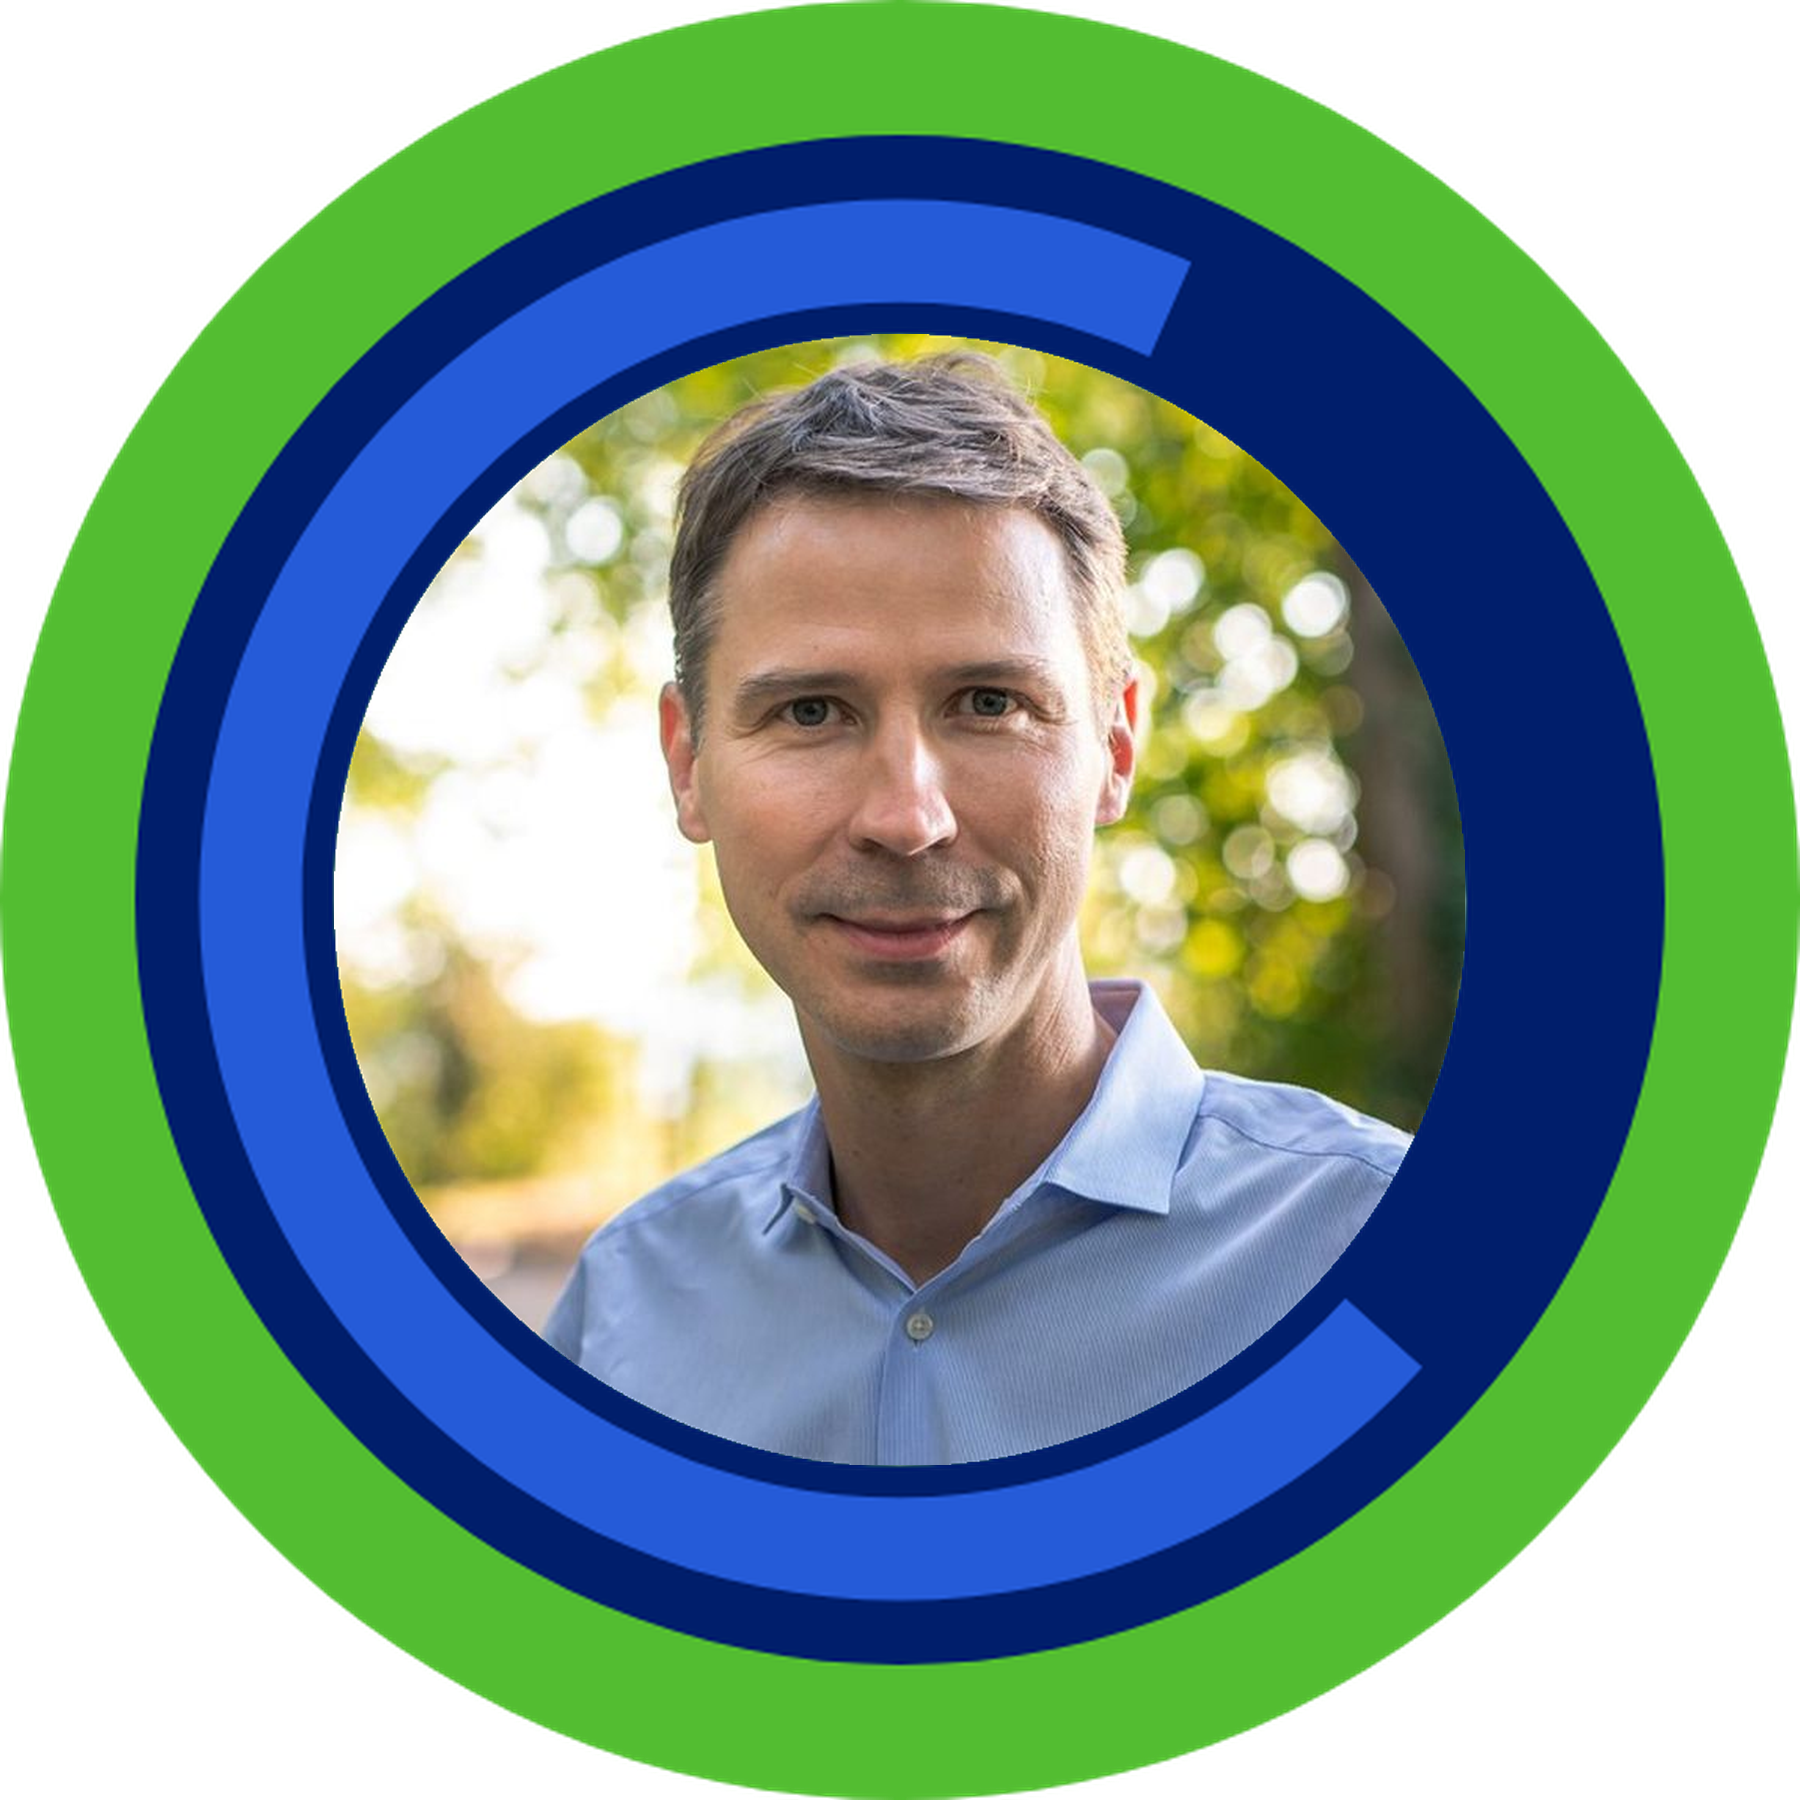
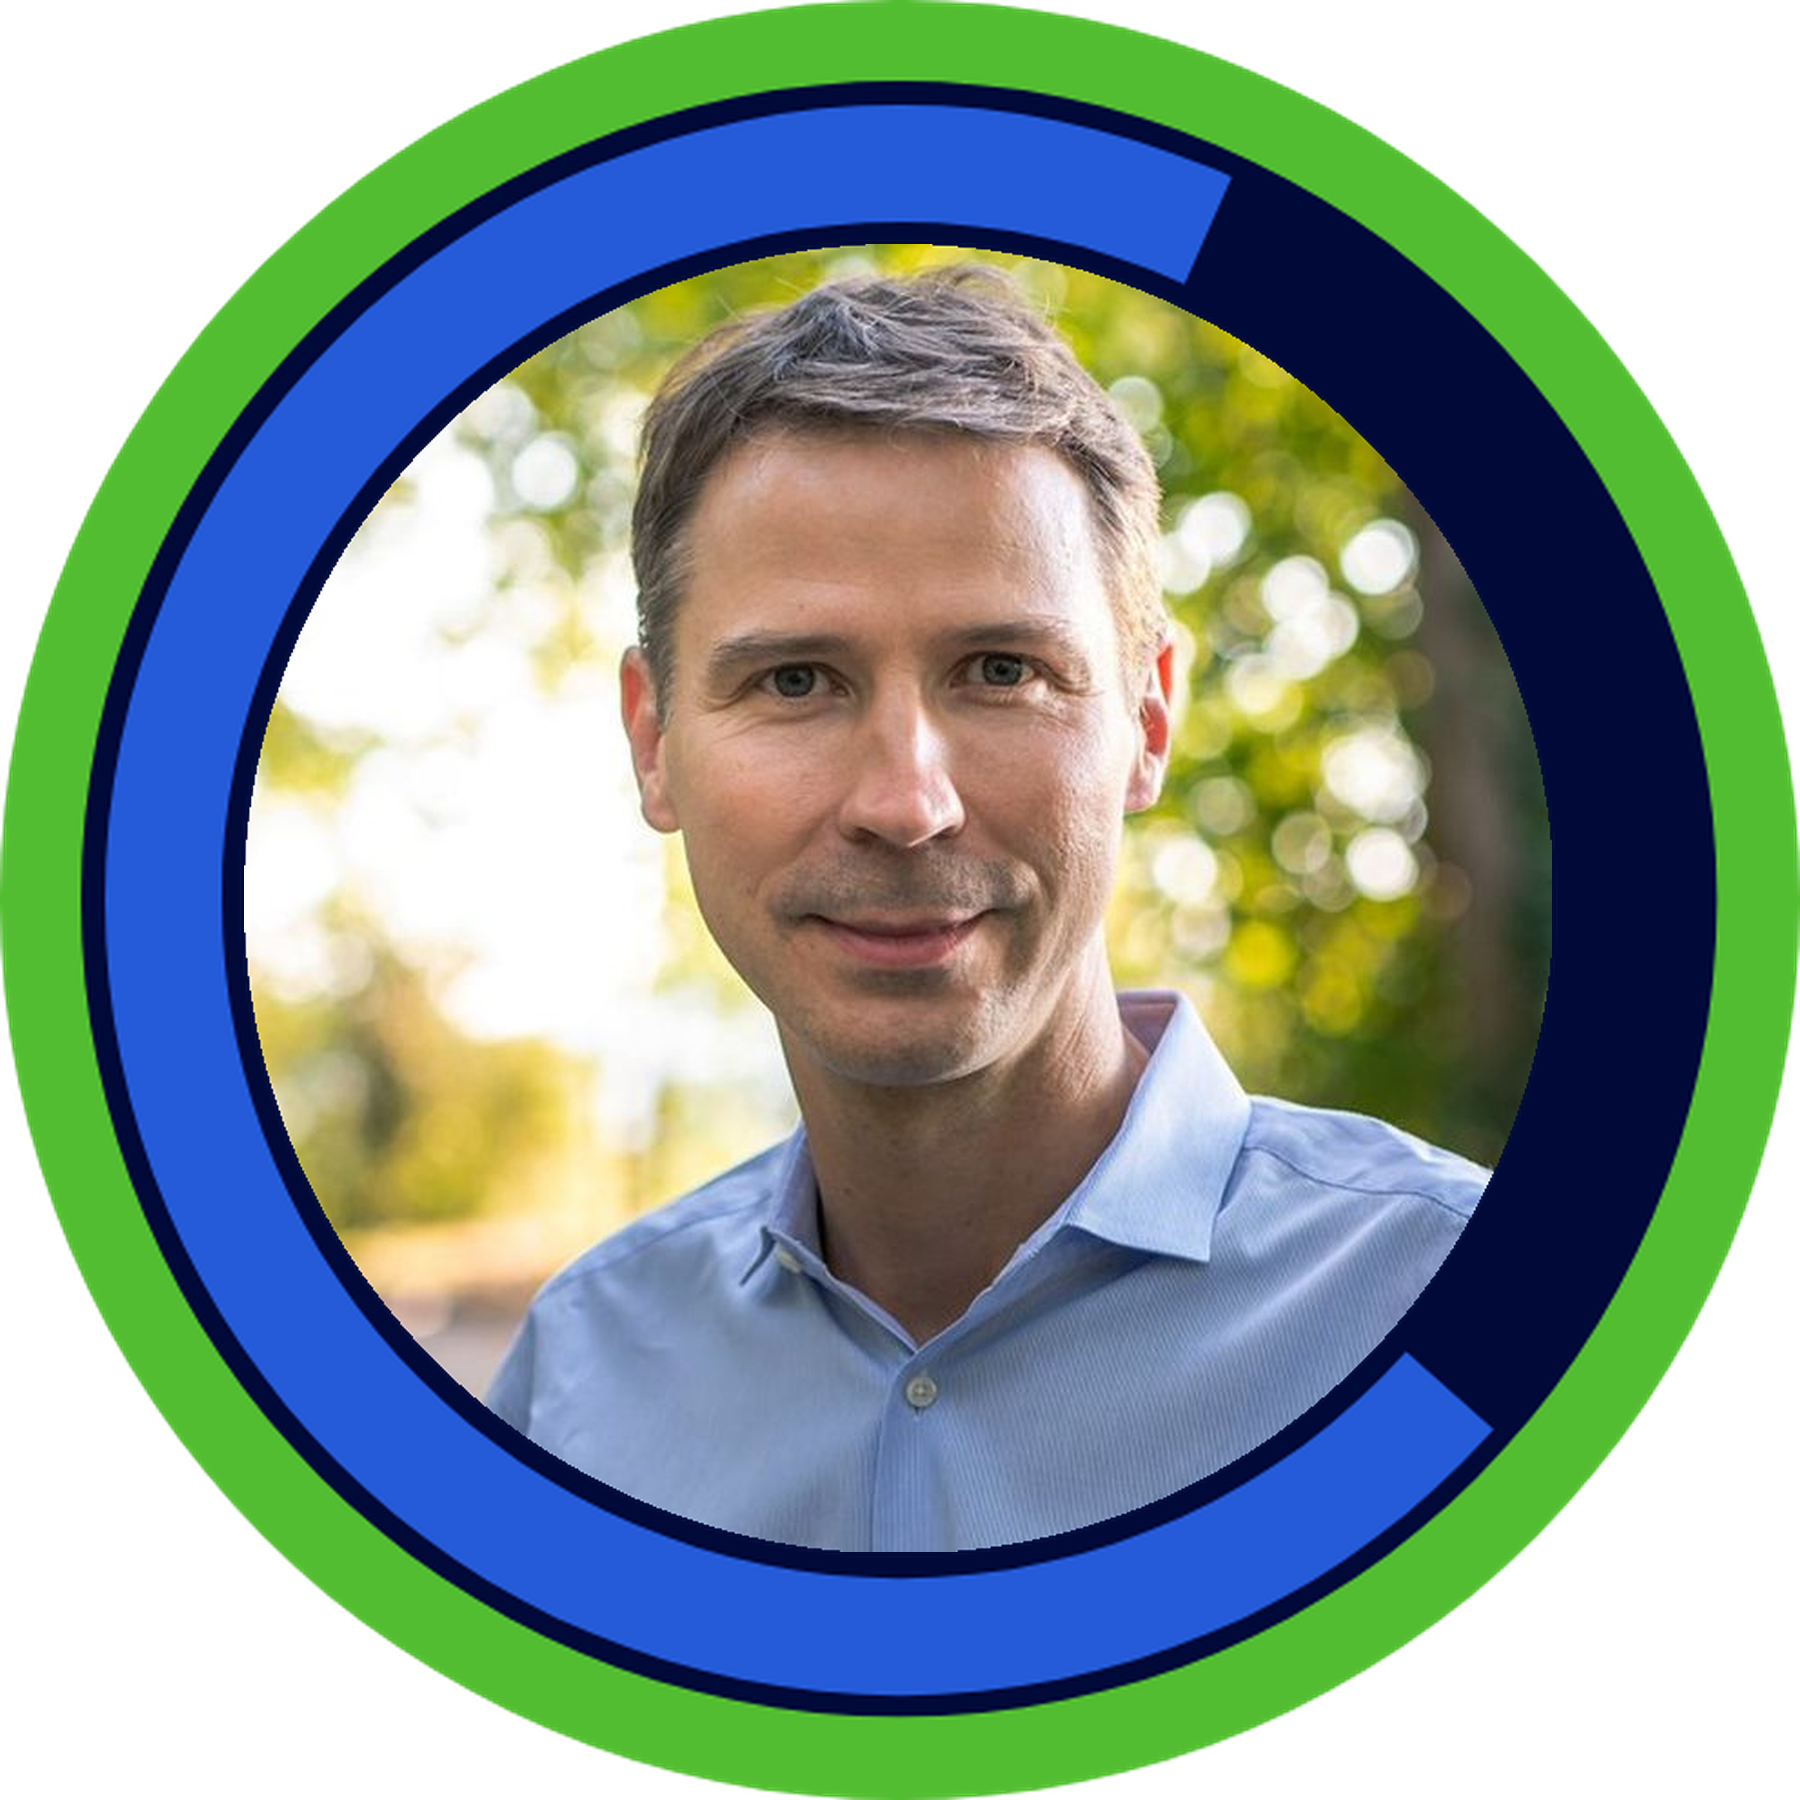
Changing mask with v3 of decembre 2023

diff --git a/app.py b/app.py
@@ -76,7 +76,7 @@ def image_to_vignette(img, overlay):
 
 
     # Coef used to oversize the overlay, in order to keep image picture quality hihg enough on result. If coef = 1, output is (300,300) pixels
-    coef = 2
+    coef = 3
 
 
     # Making overlay squared (current overlay is 300*302)
@@ -90,14 +90,14 @@ def image_to_vignette(img, overlay):
 
 
     # Downsizing the image
-    inner_circle_size = 377
+    inner_circle_size = 436
     new_size = (inner_circle_size * coef, inner_circle_size * coef)
     img_resized = img.resize(new_size, Image.Resampling.LANCZOS)
     i_w, i_h = img_resized.size
 
-    px_vertical_offset = 0 * coef  # if transparent circle is not perfectly vertically centered, O px offset in this version
-
-    offset_to_center = ((o_w - i_w) // 2,
+    px_vertical_offset = -2  # if transparent circle is not perfectly vertically centered, O px offset in this version
+    px_horizontal_offset= -2
+    offset_to_center = ((o_w - i_w) // 2 + px_horizontal_offset,
                         (o_h - i_h) // 2 + px_vertical_offset)
 
     img_resized_tbg = Image.new('RGBA', (o_w, o_h), (255, 255, 255, 0))
